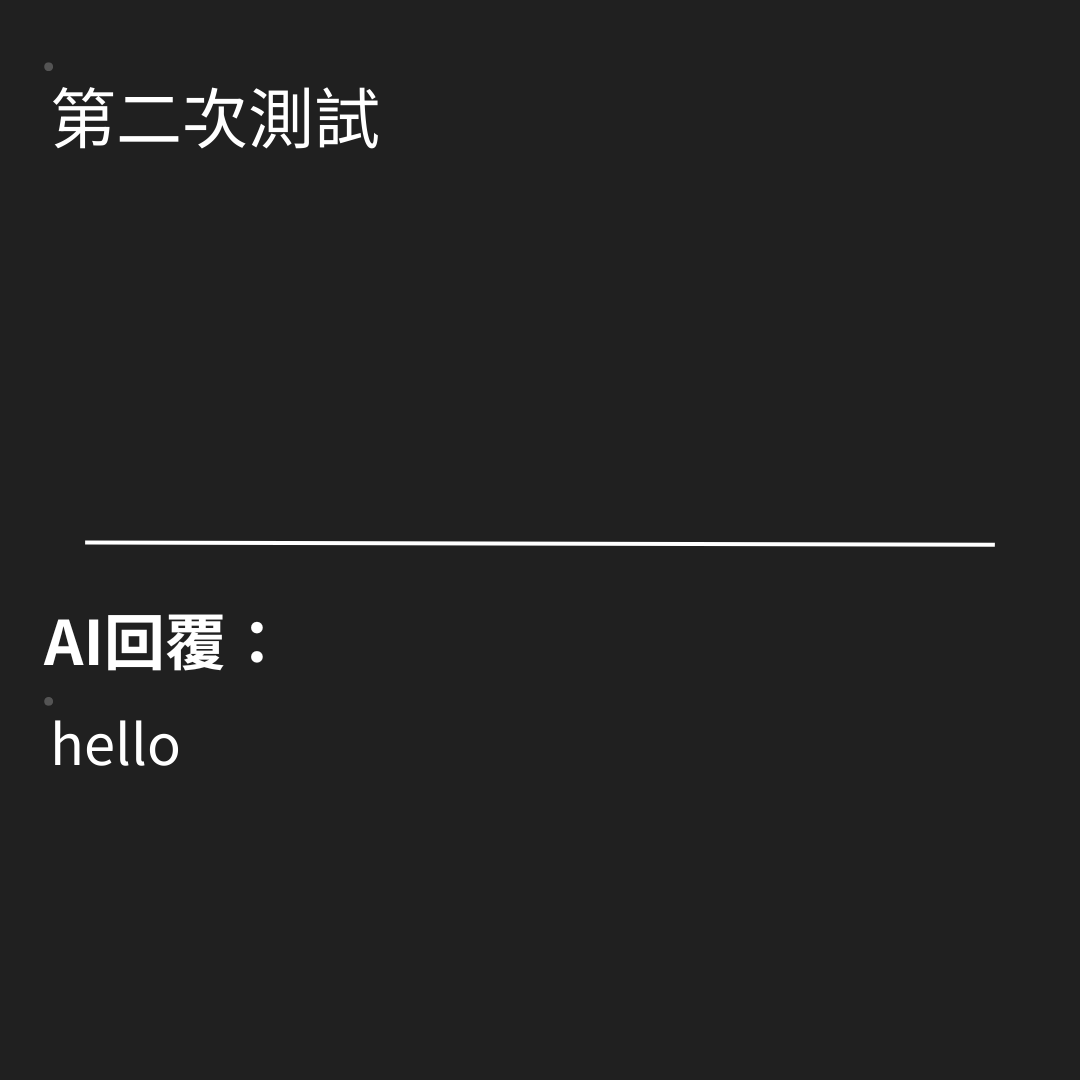
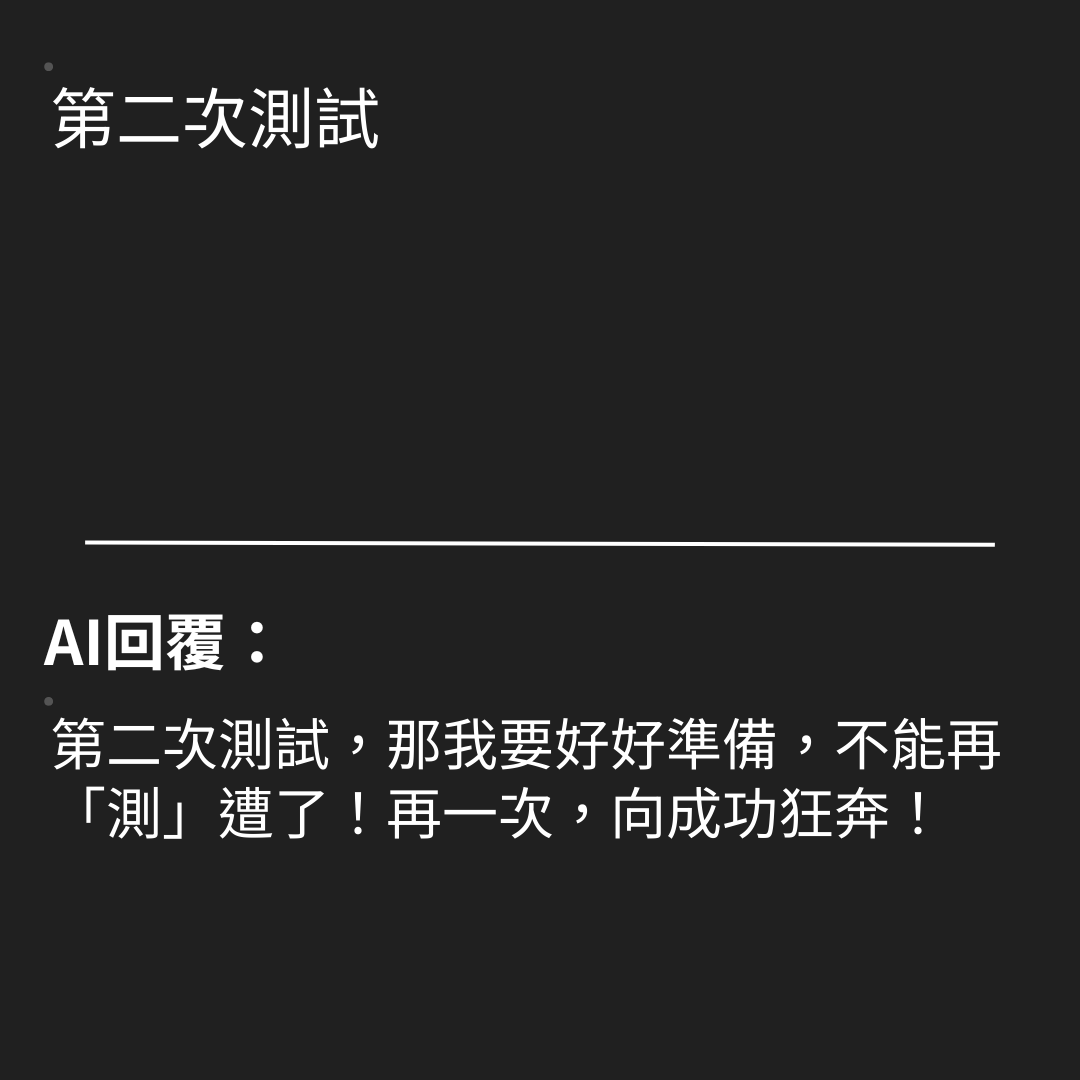
newopenai

Changed region(s): [[0.3667, 0.6417, 0.9472, 0.7944], [0.0306, 0.6417, 0.3361, 0.7944]]

diff --git a/py/main.py b/py/main.py
@@ -1,34 +1,34 @@
-import openai
-from PIL import Image, ImageDraw, ImageFont
-from flask import Flask, request, jsonify
-from selenium import webdriver
-from selenium.webdriver.chrome.service import Service as ChromeService
-from webdriver_manager.chrome import ChromeDriverManager
-from selenium.webdriver.common.by import By
-from selenium.webdriver.support.ui import WebDriverWait
-import os
-from dotenv import load_dotenv
 from selenium.webdriver.common.action_chains import ActionChains
+from dotenv import load_dotenv
+import os
+from selenium.webdriver.support.ui import WebDriverWait
+from selenium.webdriver.common.by import By
+from webdriver_manager.chrome import ChromeDriverManager
+from selenium.webdriver.chrome.service import Service as ChromeService
+from selenium import webdriver
+from flask import Flask, request, jsonify
+from PIL import Image, ImageDraw, ImageFont
+from openai import OpenAI
+import re
+client = OpenAI(api_key='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')
 load_dotenv()
 
-openai.api_key = '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'
 
 # 用戶和AI的訊息
 user = "第二次測試"
-# ai_response = openai.ChatCompletion.create(
-#     model="gpt-3.5-turbo",
-#     messages=[
-#         {"role": "user", "content": "請在68字內簡單幽默的回答\"%s\"。" % (user)}
-#     ]
-# )
+ai_response = client.chat.completions.create(model="gpt-3.5-turbo", messages=[
+    {"role": "user", "content": "請在68字內簡單幽默的回答\"%s\"。" % (user)}
+])
+ai_response = re.search(r"content='(.*?)', role", str(ai_response))
+ai = str(ai_response.group(1))
 user = user.replace('\n', ' ')  # 將換行符替換為空格
 user = [user[i:i + 14] for i in range(0, len(user), 14)]
 user = "\n".join(user)
+print(ai_response)
+ai = ai.replace('\n', ' ')  # 將換行符替換為空格
+ai = [ai[i:i + 17] for i in range(0, len(ai), 17)]
+ai = "\n".join(ai)
 
-# ai = ai_response.choices[0].message["content"].replace('\n', ' ')  # 將換行符替換為空格
-# ai = [ai[i:i + 17] for i in range(0, len(ai), 17)]
-# ai = "\n".join(ai)
-ai = "hello"
 # 打開圖片
 image = Image.open('public/ins.png')
 draw = ImageDraw.Draw(image)

diff --git a/py/make_img.py b/py/make_img.py
@@ -1,16 +1,16 @@
 from PIL import Image, ImageDraw, ImageFont
-import openai
+from openai import OpenAI
 
-openai.api_key = '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'
+client = OpenAI(api_key='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')
+
+
 
 # 用戶和AI的訊息
 user = "笑死今天好累"
-ai_response = openai.ChatCompletion.create(
-    model="gpt-3.5-turbo",
-    messages=[
-        {"role": "user", "content": "請在68字內簡單幽默的回答\"%s\"。" % (user)}
-    ]
-)
+ai_response = client.chat.completions.create(model="gpt-3.5-turbo",
+messages=[
+    {"role": "user", "content": "請在68字內簡單幽默的回答\"%s\"。" % (user)}
+])
 user = user.replace('\n', ' ')  # 將換行符替換為空格
 user = [user[i:i + 14] for i in range(0, len(user), 14)]
 user = "\n".join(user)
